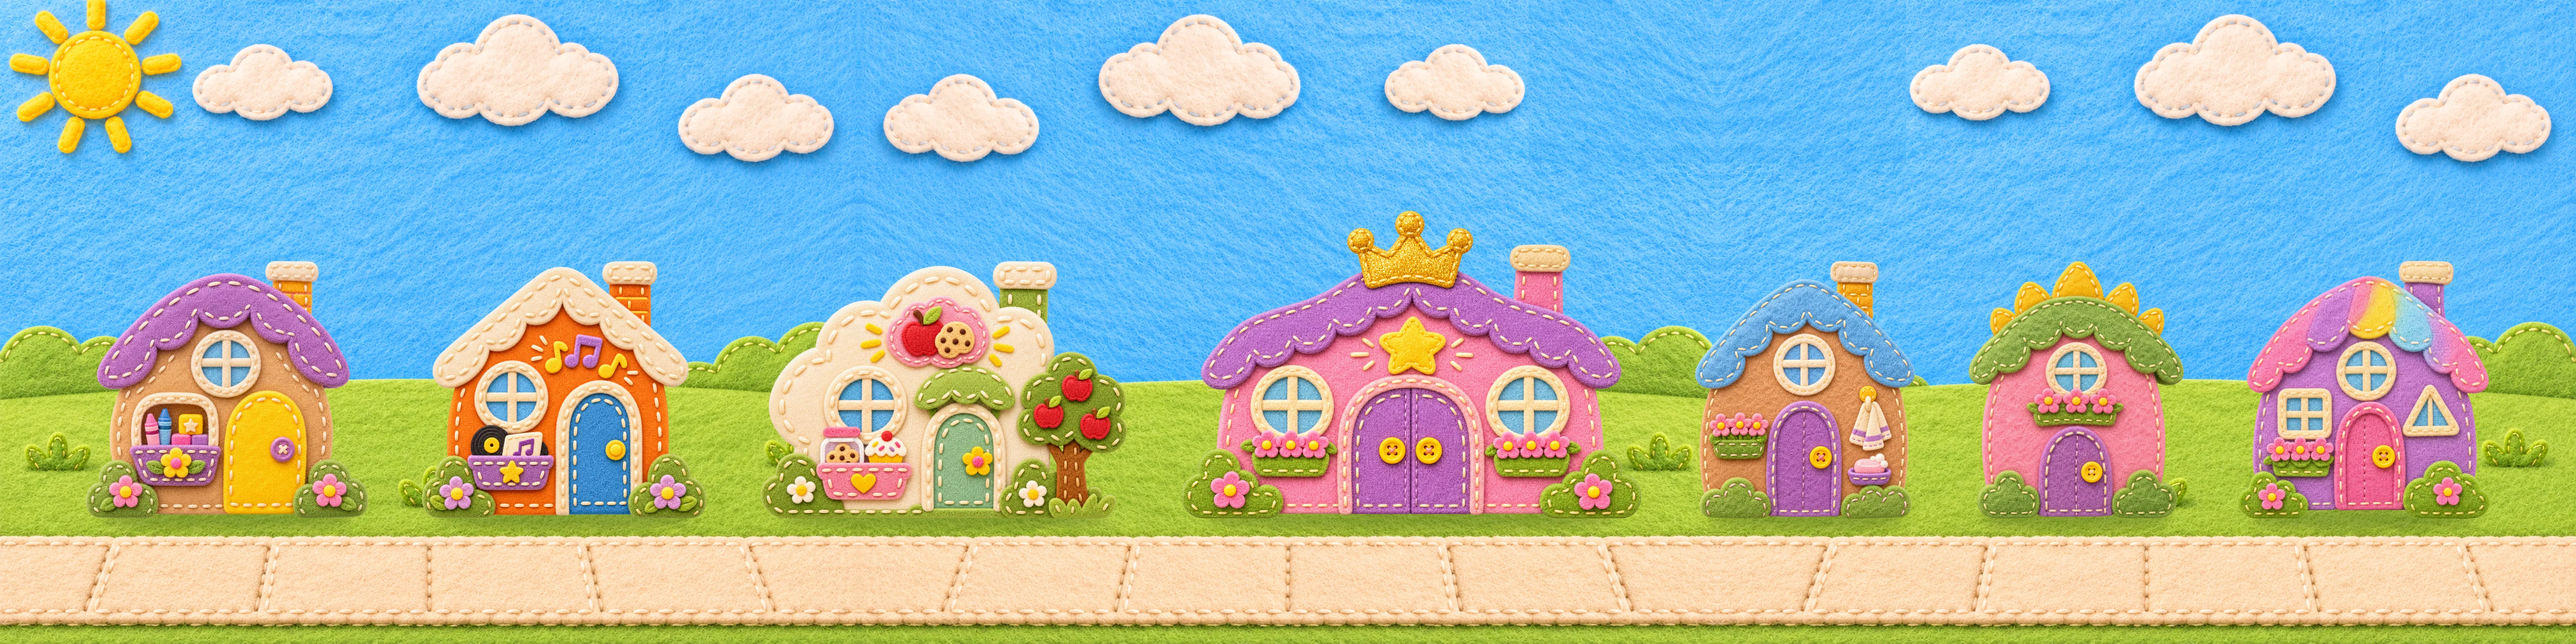
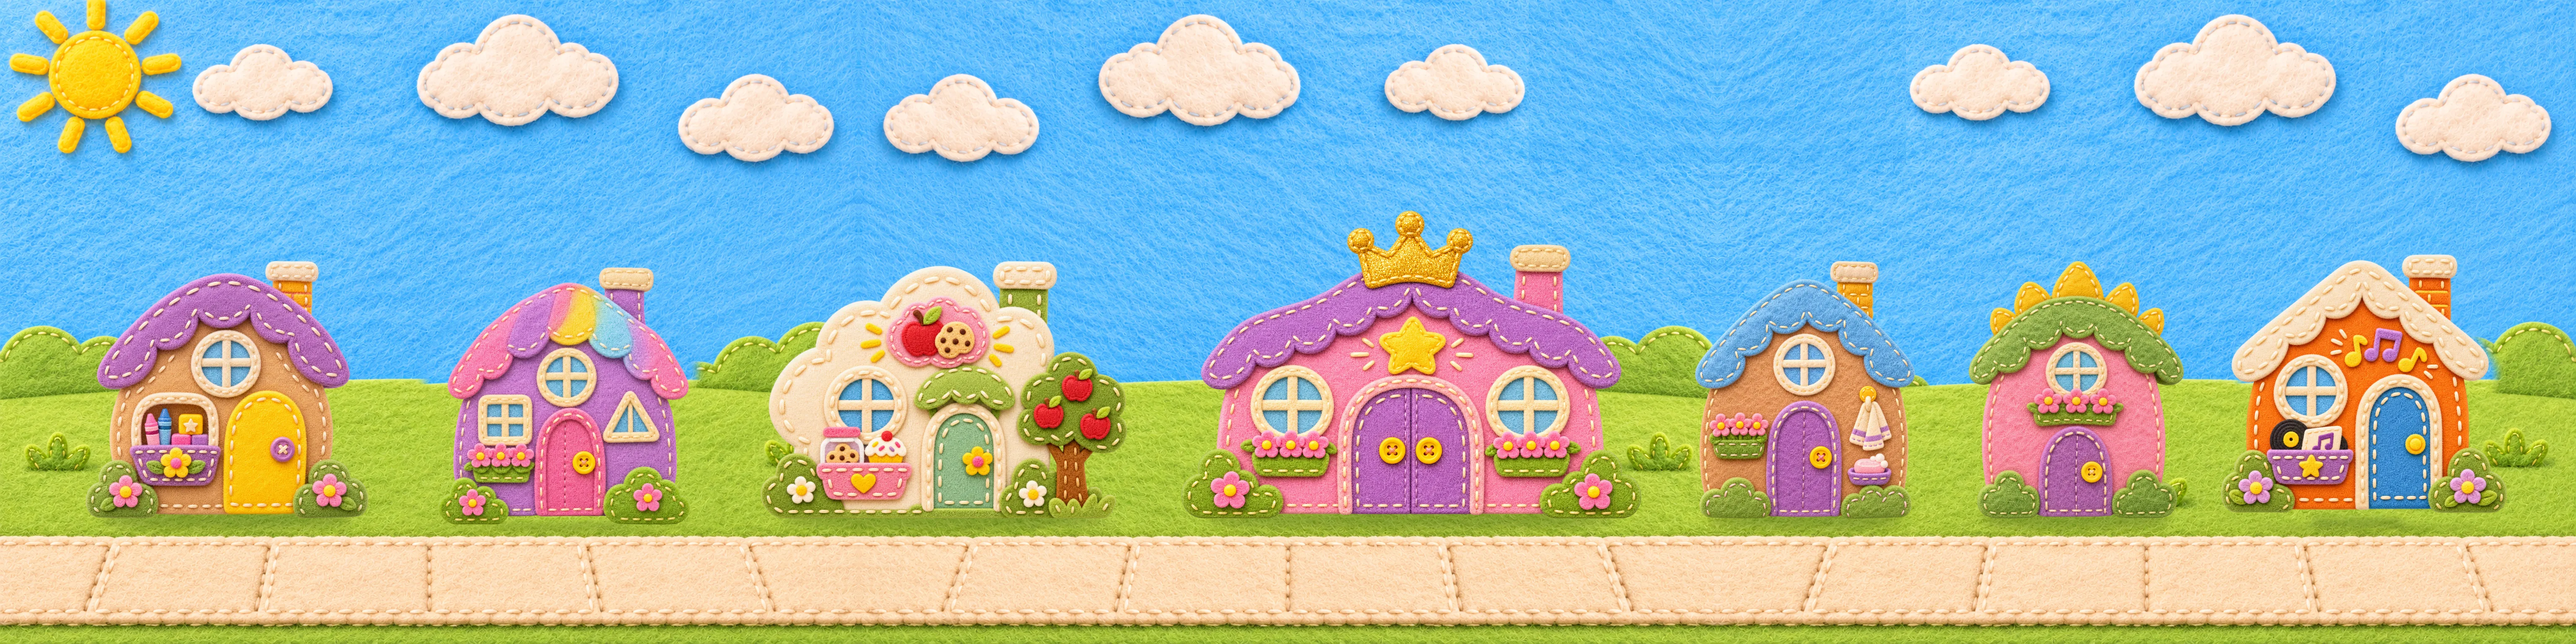
Street: swap Jeffrey's and Annie's houses so Annie lives next to Baby Bear
Claude-Session: https://claude.ai/code/session_01QQ5WvCb2WoykbmZV2rnxma

Changed region(s): [[0.1562, 0.4062, 0.2812, 0.8125], [0.8438, 0.375, 1.0, 0.8125]]

diff --git a/js/game.js b/js/game.js
@@ -159,12 +159,12 @@
   // Where each house sits on the wide street picture (fractions of its width / height).
   var HOUSES = [
     { id: 'baby-bear', x: .033, w: .106, open: 'tidy' },
-    { id: 'jeffrey',   x: .165, w: .106 },
+    { id: 'annie',     x: .170, w: .098 },
     { id: 'shelley',   x: .293, w: .143 },
     { id: 'playroom',  x: .462, w: .170, open: 'playroom' },
     { id: 'bart',      x: .654, w: .092 },
     { id: 'terry',     x: .762, w: .088 },
-    { id: 'annie',     x: .869, w: .097 }
+    { id: 'jeffrey',   x: .861, w: .113 }
   ];
   var housesEl = document.getElementById('houses');
   HOUSES.forEach(function (h) {

diff --git a/sw.js b/sw.js
@@ -1,6 +1,6 @@
 // Keeps Stuffie Town working offline after the first visit.
 // Bump VERSION whenever files change so the iPad picks up the new game.
-var VERSION = 'stuffie-v5';
+var VERSION = 'stuffie-v6';
 self.addEventListener('install', function () { self.skipWaiting(); });
 self.addEventListener('activate', function (e) {
   e.waitUntil(caches.keys().then(function (keys) {
